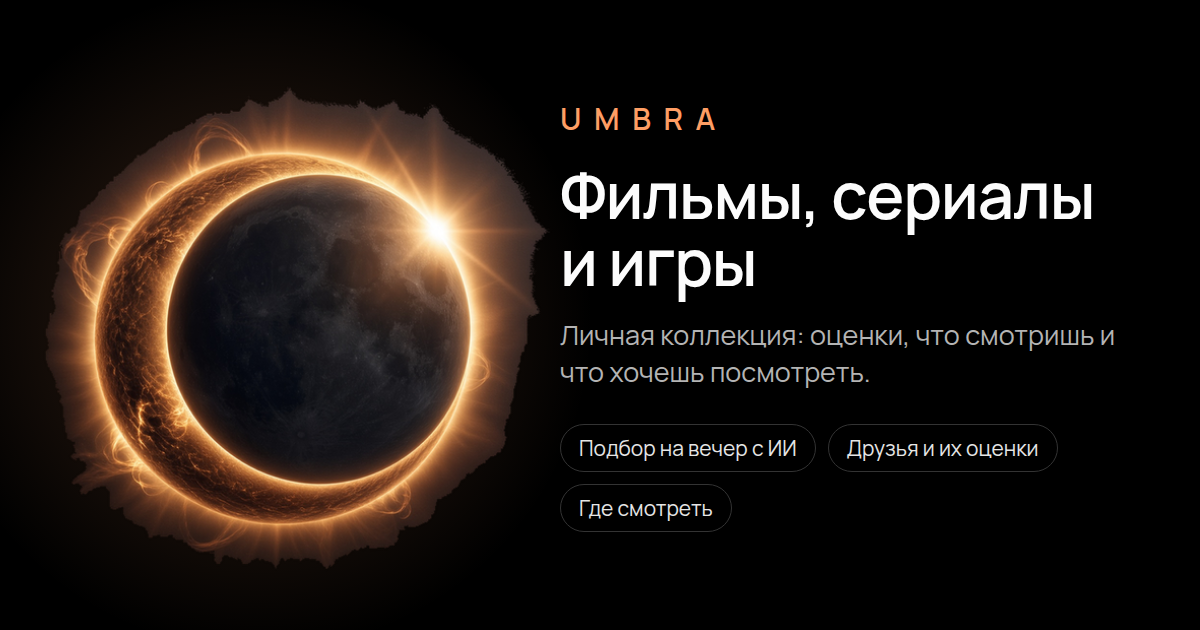
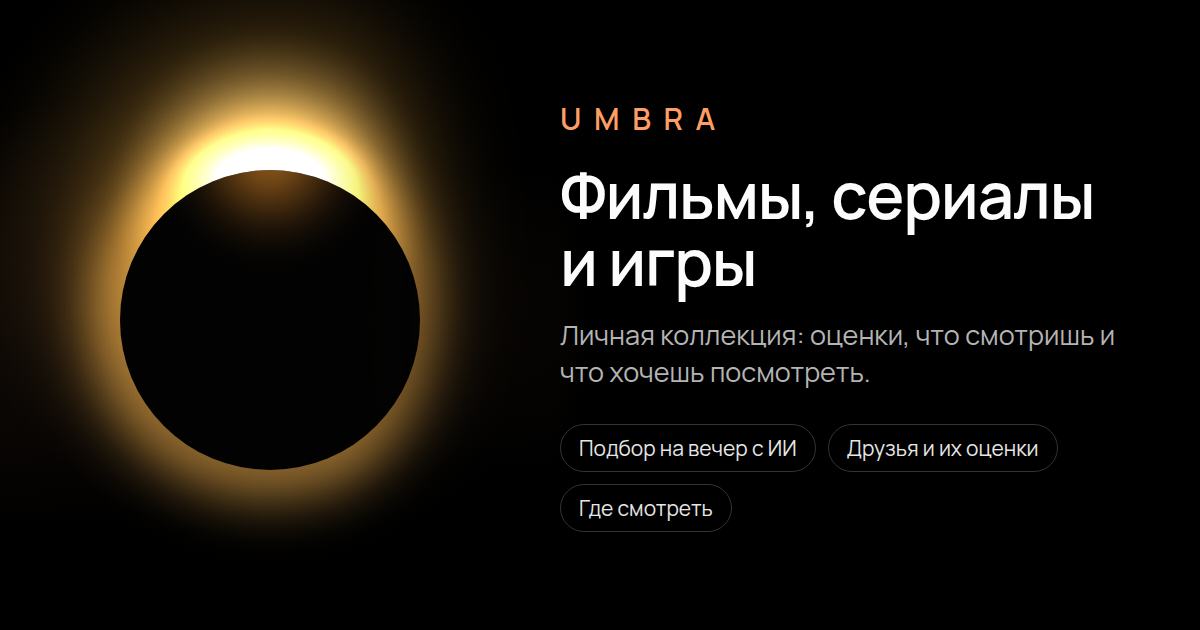
New Umbra eclipse: soft light, no cut-out edge
The old mark was a photo cut out with a hard mask: its glow ended in a
jagged edge, plain to see on the TV launcher's dark row. The new one is
drawn: a black moon, white-gold light breaking over its upper edge, a
golden halo with a Gaussian fall-off into a dark backdrop.

- TV app: launcher icons, an adaptive icon (foreground + dark background,
  so round and squircle crops keep the glow), banners xhdpi and xxhdpi.
- Site: the header mark, PWA icons with their own maskable one, the Apple
  and tab icons, the eclipse on the link previews (og-image, og-invite).
  The old flat SVG logos, unused, are gone.
- tools/brand: the generator, to redraw everything from one place.

Changed region(s): [[0.0308, 0.0, 0.4625, 0.9048]]

diff --git a/index.html b/index.html
@@ -3,7 +3,7 @@
   <head>
     <meta charset="UTF-8" />
     <link rel="icon" type="image/png" sizes="32x32" href="%BASE_URL%favicon-32.png" />
-    <link rel="apple-touch-icon" sizes="180x180" href="%BASE_URL%apple-touch-icon.png?v=4" />
+    <link rel="apple-touch-icon" sizes="180x180" href="%BASE_URL%apple-touch-icon.png?v=5" />
     <meta name="viewport" content="width=device-width, initial-scale=1.0, maximum-scale=1.0, user-scalable=no, viewport-fit=cover" />
     <meta name="theme-color" content="#000000" />
     <meta name="description" content="Umbra — личная коллекция фильмов, сериалов и игр" />

diff --git a/vite.config.ts b/vite.config.ts
@@ -28,6 +28,7 @@ export default defineConfig({
         "apple-touch-icon.png",
         "icon-192.png",
         "icon-512.png",
+        "icon-maskable-512.png",
         "brand-mark.webp",
       ],
       manifest: {
@@ -54,7 +55,8 @@ export default defineConfig({
             purpose: "any",
           },
           {
-            src: "icon-512.png",
+            // The eclipse smaller, so a phone's round or squircle crop keeps all its glow.
+            src: "icon-maskable-512.png",
             sizes: "512x512",
             type: "image/png",
             purpose: "maskable",

diff --git a/tools/brand/README.md b/tools/brand/README.md
@@ -1,0 +1,18 @@
+# Логотип Umbra
+
+Затмение рисуется программно (`corona.mjs`): чёрная луна, свет «бриллиантового кольца» над верхним краем, мягкое золотое сияние с гауссовым затуханием — без резких краёв на любом фоне.
+
+```sh
+node tools/brand/corona.mjs /tmp/brand          # иконки, слои адаптивной иконки, ТВ-баннеры, иконки сайта, превью
+node tools/brand/og.mjs public /tmp/brand       # затмение на og-image/og-invite и brand-mark.webp
+```
+
+Куда класть результат:
+
+| Файл | Назначение |
+|---|---|
+| `ic_launcher_{96,144,192}.png` | `android-tv/…/res/mipmap-{xhdpi,xxhdpi,xxxhdpi}/ic_launcher.png` |
+| `fg_{216,324,432}.png` | `…/mipmap-*/ic_launcher_foreground.png` (адаптивная иконка) |
+| `banner_640.png`, `banner_960.png` | `…/drawable-xhdpi/banner.png`, `…/drawable-xxhdpi/banner.png` |
+| `icon_512`, `icon_192`, `apple_180`, `favicon_32`, `maskable_512` | `public/icon-512.png`, `icon-192.png`, `apple-touch-icon.png`, `favicon-32.png`, `icon-maskable-512.png` |
+| `brand-mark.webp`, `og-image.png`, `og-invite.png` | `public/` |
